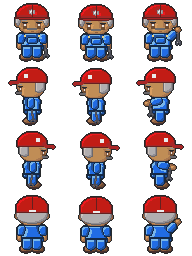
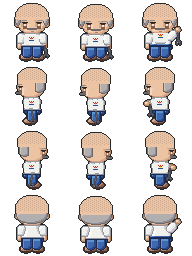
Rename the garage Phoenix MX with its sign, and make its mechanic Paul Phoenix
The Home Town garage is Phoenix MX everywhere: the building, its door and return, the shop, the interior's title, the journal, items and dialogue, with a new sign on the exterior sheet in the logo's style (tools/art/phoenix-mx.py draws it and Paul). The mechanic is Paul Phoenix, an older white man with stubble on his head in a white Phoenix MX T-shirt and blue jeans; the tutorial sends the player to the town's mechanic at Phoenix MX and Paul introduces himself at the first meeting. Tests follow the names and the Home Town map's hash.

Claude-Session: https://claude.ai/code/session_0112bA7bW8SkGFjFEFc6DWDg

diff --git a/tests/buildings.test.ts b/tests/buildings.test.ts
@@ -10,8 +10,8 @@ const maps = loadMaps();
 const T = 64;
 
 /** The Home Town map file as it stands (Alpha v1: 2×2 road exits and the local racer outside the garage). */
-// Updated for the Used Motors building and its seller (Boss, 28 Oct 2026).
[1 lines of base64/hex data omitted]
+// Updated for the Used Motors building and its seller (Boss, 28 Oct 2026), and the garage renamed Phoenix MX (29 Oct 2026).
[1 lines of base64/hex data omitted]
 
 function pngSize(rel: string): [number, number] {
   const b = fs.readFileSync(`public/assets/${rel}`);
@@ -120,7 +120,7 @@ describe('building checks', () => {
     const named = withLib((b) => {
       b.find((x) => x.id === 'bld.home.local_garage')!.returns = [{ tile: [1, 4] }];
     });
-    expect(problems(named).join('\n')).toMatch(/comes out on the return named "side_door", which Local garage doesn't have/);
+    expect(problems(named).join('\n')).toMatch(/comes out on the return named "side_door", which Phoenix MX doesn't have/);
   });
 
   it('refuses a door or return moved on the map but not in the library', () => {

diff --git a/tests/guides.test.ts b/tests/guides.test.ts
@@ -110,7 +110,7 @@ describe('road exits and the local racer (Alpha v1)', () => {
   it('stands the local racer on the pavement outside the local garage', () => {
     const home = map('area1-home-town');
     const racer = home.objects.find((o) => o.type === 'npc' && o.props.npc === 'npc.local_racer')!;
-    const garage = home.objects.find((o) => o.type === 'building' && o.name === 'Local garage')!;
+    const garage = home.objects.find((o) => o.type === 'building' && o.name === 'Phoenix MX')!;
     const t = { x: racer.x / 64, y: racer.y / 64 };
     expect(t.y).toBe((garage.y + garage.h) / 64);
     expect(t.x).toBeGreaterThanOrEqual(garage.x / 64);

diff --git a/tests/waymarks.test.ts b/tests/waymarks.test.ts
@@ -32,7 +32,7 @@ describe('tutorial markers (Boss, 28 Oct 2026)', () => {
   it('points at the building door, the way out of a building, or the road to another area', () => {
     const garage = hop('area1-home-town', 'int-home-local-garage')!;
     expect(garage.kind).toBe('door');
-    expect(new Set(garage.via.map((o) => o.name))).toEqual(new Set(['Local garage']));
+    expect(new Set(garage.via.map((o) => o.name))).toEqual(new Set(['Phoenix MX']));
     expect(garage.via.length).toBeGreaterThan(1);
 
     const out = hop('int-home-local-garage', 'int-home-bike-shop')!;

diff --git a/src/scenes/WorldScene.ts b/src/scenes/WorldScene.ts
@@ -740,7 +740,7 @@ export class WorldScene extends Phaser.Scene {
     const job = services.content.world.jobs.find((j) => j.map === this.map.id && j.start === o.name);
     if (!job) return false;
     if (job.needs && !this.save.flags[job.needs]) {
-      this.hud.toast('Nobody here has time to show you the work yet. Finish helping the garage mechanic first.');
+      this.hud.toast('Nobody here has time to show you the work yet. Finish helping Paul at Phoenix MX first.');
       return true;
     }
     const pay = formatMoney(jobPay(services.content.world, job));

diff --git a/tools/art/phoenix-mx.py b/tools/art/phoenix-mx.py
@@ -1,0 +1,206 @@
+"""Phoenix MX (Boss, 29 Oct 2026): the garage's sign and Paul Phoenix, its mechanic.
+
+Redraws the garage sign on the exterior sheet in the Phoenix MX logo's style (slanted white-edged
+letters, blue for PHOENIX and red for MX, the phoenix rising over the MX) and turns the garage
+mechanic's sheets into Paul: an older white man with stubble on his head instead of a cap, in a
+white Phoenix MX T-shirt and blue jeans. Writes the sheets in place and 4x previews:
+
+    python3 tools/art/phoenix-mx.py <repo> <preview-dir>
+"""
+import sys
+from pathlib import Path
+
+from PIL import Image, ImageDraw, ImageFont
+
+OUTLINE = (39, 42, 44, 255)
+# The sheet's colours and Paul's.
+SKIN = {(192, 141, 86): (236, 196, 164), (168, 119, 80): (214, 168, 136), (216, 157, 96): (246, 214, 186), (142, 94, 62): (176, 130, 100), (107, 74, 49): (130, 92, 70)}
+CAP = {(194, 28, 21), (238, 25, 29), (168, 39, 39), (100, 32, 31)}
+BLUE = {(33, 108, 228): 'mid', (33, 80, 153): 'shade', (120, 181, 233): 'hi', (20, 41, 71): 'dark'}
+SHIRT = {'mid': (240, 240, 236), 'shade': (204, 204, 210), 'hi': (252, 252, 250), 'dark': (150, 150, 160)}
+JEANS = {'mid': (62, 104, 176), 'shade': (42, 72, 132), 'hi': (96, 146, 206), 'dark': (26, 42, 82)}
+SKIN_MID = (236, 196, 164)
+STUBBLE = (204, 170, 146)
+HAIR = {(177, 174, 175), (145, 142, 147)}
+EYE = (234, 235, 235)
+BUTTON = (232, 209, 132)
+# The chest mark: the phoenix in three flame tones over a blue MX bar.
+Y, O, R, B = (250, 220, 60), (240, 130, 30), (210, 40, 30), (33, 80, 153)
+MARK = [
+    [R, 0, R, 0, R],
+    [0, R, O, R, 0],
+    [0, 0, Y, 0, 0],
+    [B, B, B, B, B],
+]
+
+
+def paul(sheet: Image.Image, fw=64, fh=64) -> Image.Image:
+    out = sheet.copy()
+    px = out.load()
+    for fy in range(0, sheet.height, fh):
+        for fx in range(0, sheet.width, fw):
+            frame(px, fx, fy, fw, fh)
+    return out
+
+
+def frame(px, fx, fy, fw, fh):
+    rows = range(fy, fy + fh)
+    cols = range(fx, fx + fw)
+    rgb = lambda x, y: px[x, y][:3]
+    # Where the body (blue) and the face (skin) are, to split shirt from jeans and cap from face.
+    body = [y for y in rows if any(rgb(x, y) in BLUE for x in cols)]
+    skin = [y for y in rows if any(rgb(x, y) in SKIN for x in cols)]
+    if not body or not skin:
+        return
+    waist = body[0] + (body[-1] - body[0]) // 2 + 1
+    face_top = skin[0]
+    # The face's width just under the cap: the cap's brim and peak stick out beyond it and go.
+    span = {}
+    for y in rows:
+        xs = [x for x in cols if px[x, y][3] and rgb(x, y) not in CAP and rgb(x, y) != OUTLINE[:3]]
+        if xs:
+            span[y] = (min(xs), max(xs))
+    head = span.get(face_top) or span.get(face_top + 1)
+    for y in rows:
+        for x in cols:
+            c = rgb(x, y)
+            if not px[x, y][3]:
+                continue
+            if c in SKIN:
+                px[x, y] = SKIN[c] + (255,)
+            elif c in BLUE:
+                px[x, y] = (SHIRT if y < waist else JEANS)[BLUE[c]] + (255,)
+            elif c in CAP or (y < face_top and (c in {(234, 235, 235), (207, 197, 191)} or (c in HAIR and head and head[0] + 2 < x < head[1] - 2))):
+                # The cap: its crown is the top of the head now; the cap's badge is skin too.
+                px[x, y] = SKIN_MID + (255,)
+            elif c == BUTTON:
+                px[x, y] = SHIRT['mid'] + (255,)
+    # The brim and peak beyond the head go, outline and all, from the cap rows down to the brow.
+    if head:
+        for y in range(fy, face_top + 2):
+            for x in cols:
+                if x < head[0] - 1 or x > head[1] + 1:
+                    px[x, y] = (0, 0, 0, 0)
+        # Lower down, the peak's last pixels stand apart from the face: short runs off the head go.
+        mid = (head[0] + head[1]) // 2
+        for y in range(face_top + 2, face_top + 8):
+            run = []
+            for x in list(cols) + [fx + fw]:
+                if x < fx + fw and px[x, y][3]:
+                    run.append(x)
+                elif run:
+                    if len(run) <= 6 and not (run[0] <= mid <= run[-1]):
+                        for rx in run:
+                            px[rx, y] = (0, 0, 0, 0)
+                    run = []
+    # Stubble: a sparse checker over the former crown, above the forehead.
+    for y in range(fy, face_top - 3):
+        for x in cols:
+            if px[x, y][:3] == SKIN_MID and (x + 2 * y) % 4 == 0:
+                px[x, y] = STUBBLE + (255,)
+    # Outline pixels left beside the removed brim go; then every edge gets its outline back.
+    for y in rows:
+        for x in cols:
+            if px[x, y][:3] == OUTLINE[:3] and y < face_top:
+                near = [(x + dx, y + dy) for dx in (-1, 0, 1) for dy in (-1, 0, 1) if (dx or dy)]
+                if not any(fx <= nx < fx + fw and fy <= ny < fy + fh and px[nx, ny][3] and px[nx, ny][:3] != OUTLINE[:3] for nx, ny in near):
+                    px[x, y] = (0, 0, 0, 0)
+    for y in rows:
+        for x in cols:
+            if px[x, y][3]:
+                continue
+            near = [(x + dx, y + dy) for dx, dy in ((1, 0), (-1, 0), (0, 1), (0, -1))]
+            if any(fx <= nx < fx + fw and fy <= ny < fy + fh and px[nx, ny][3] and px[nx, ny][:3] != OUTLINE[:3] for nx, ny in near):
+                px[x, y] = OUTLINE
+    # Front frames (the eyes show): the overalls' bib lines come off the shirt and the chest mark goes on.
+    eyes = any(px[x, y][:3] == EYE for y in range(face_top, body[0]) for x in cols)
+    if eyes:
+        y0 = body[0] + 4
+        xs = [x for x in cols if px[x, y0 + 1][:3] in SHIRT.values()]
+        if xs:
+            cx = (min(xs) + max(xs)) // 2
+            # The bib's pocket lines, in the middle of the chest, become plain shirt.
+            for y in range(body[0] + 2, waist - 2):
+                for x in range(cx - 7, cx + 8):
+                    if px[x, y][:3] in (SHIRT['shade'], SHIRT['hi'], SHIRT['dark']):
+                        px[x, y] = SHIRT['mid'] + (255,)
+            for j, row in enumerate(MARK):
+                for i, c in enumerate(row):
+                    if c and px[cx - 2 + i, y0 + j][:3] in SHIRT.values():
+                        px[cx - 2 + i, y0 + j] = c + (255,)
+
+
+def logo(w: int, h: int) -> Image.Image:
+    """The Phoenix MX logo on a dark sign: slanted letters, blue then red, the bird over the MX."""
+    img = Image.new('RGBA', (w, h), (0, 0, 0, 0))
+    S = 4
+    big = Image.new('RGBA', (w * S, h * S), (0, 0, 0, 0))
+    d = ImageDraw.Draw(big)
+    font = ImageFont.truetype('/usr/share/fonts/truetype/freefont/FreeSansBoldOblique.ttf', int(h * S * 0.8))
+    text_y = int(h * S * 0.08)
+    x = int(w * S * 0.03)
+    for word, tones in (('PHOENIX', [(120, 181, 233), (33, 108, 228), (20, 41, 120)]), ('MX', [(255, 120, 90), (238, 25, 29), (120, 20, 20)])):
+        box = d.textbbox((x, text_y), word, font=font)
+        mask = Image.new('L', big.size, 0)
+        ImageDraw.Draw(mask).text((x, text_y), word, font=font, fill=255)
+        fill = Image.new('RGBA', big.size, (0, 0, 0, 0))
+        fp = fill.load()
+        mp = mask.load()
+        for yy in range(box[1], box[3] + 1):
+            t = (yy - box[1]) / max(1, box[3] - box[1])
+            tone = tones[0] if t < 0.3 else tones[1] if t < 0.72 else tones[2]
+            for xx in range(box[0], box[2] + 1):
+                if mp[xx, yy] > 128:
+                    fp[xx, yy] = tone + (255,)
+        # White edge then dark edge round the letters.
+        for dx in range(-S * 2, S * 2 + 1):
+            for dy in range(-S * 2, S * 2 + 1):
+                if abs(dx) + abs(dy) <= S * 3:
+                    d.text((x + dx, text_y + dy), word, font=font, fill=(30, 32, 36, 255))
+        for dx in range(-S, S + 1):
+            for dy in range(-S, S + 1):
+                d.text((x + dx, text_y + dy), word, font=font, fill=(250, 250, 248, 255))
+        big.alpha_composite(fill)
+        x = box[2] + int(S * 1.5)
+    # The phoenix: wings up and out, head turned, tail trailing, flame tones top to bottom.
+    bx = int(w * S * 0.74)
+    by = int(h * S * 0.04)
+    bw = int(w * S * 0.24)
+    bh = int(h * S * 0.62)
+    P = lambda u, v: (bx + u * bw, by + v * bh)
+    body = [P(0.5, 1.0), P(0.44, 0.75), P(0.25, 0.55), P(0.0, 0.35), P(0.08, 0.22), P(0.14, 0.3), P(0.18, 0.08), P(0.24, 0.25), P(0.3, 0.0), P(0.34, 0.28), P(0.42, 0.3), P(0.44, 0.25), P(0.47, 0.1), P(0.52, 0.05), P(0.56, 0.12), P(0.55, 0.28), P(0.62, 0.28), P(0.7, 0.0), P(0.76, 0.25), P(0.82, 0.08), P(0.86, 0.3), P(0.92, 0.22), P(1.0, 0.35), P(0.75, 0.55), P(0.56, 0.75)]
+    bird = Image.new('RGBA', big.size, (0, 0, 0, 0))
+    ImageDraw.Draw(bird).polygon(body, fill=(255, 255, 255, 255), outline=(30, 32, 36, 255), width=S)
+    bp = bird.load()
+    for yy in range(by, by + bh + 1):
+        t = (yy - by) / bh
+        tone = (250, 220, 60) if t < 0.25 else (240, 130, 30) if t < 0.55 else (210, 40, 30)
+        for xx in range(bx - 2, bx + bw + 3):
+            if 0 <= xx < big.width and 0 <= yy < big.height and bp[xx, yy][3]:
+                bp[xx, yy] = tone + (255,)
+    big.alpha_composite(bird)
+    return big.resize((w, h), Image.LANCZOS)
+
+
+def main(repo: Path, preview: Path):
+    npcs = repo / 'public/assets/art/characters/npcs'
+    for name in ('npc-01-garage-mechanic.png', 'npc-01-garage-mechanic.act.png'):
+        sheet = Image.open(npcs / name).convert('RGBA')
+        out = paul(sheet)
+        out.save(npcs / name)
+        out.resize((out.width * 4, out.height * 4), Image.NEAREST).save(preview / f'paul-{name}')
+    sheet_path = repo / 'public/assets/art/buildings/sheets/buildings-exterior-v3.png'
+    sheet = Image.open(sheet_path).convert('RGBA')
+    # The garage's sign panel on the exterior (the building's crop is 1216,0 576x256).
+    x0, y0, x1, y1 = 1216 + 58, 108, 1216 + 336, 148
+    d = ImageDraw.Draw(sheet)
+    d.rectangle((x0, y0, x1 - 1, y1 - 1), fill=(32, 34, 38, 255), outline=(60, 62, 66, 255))
+    lg = logo(x1 - x0 - 4, y1 - y0 - 4)
+    sheet.alpha_composite(lg, (x0 + 2, y0 + 2))
+    sheet.save(sheet_path)
+    crop = sheet.crop((1216, 0, 1216 + 576, 256))
+    crop.resize((crop.width * 2, crop.height * 2), Image.NEAREST).save(preview / 'phoenix-mx-garage.png')
+
+
+if __name__ == '__main__':
+    main(Path(sys.argv[1]), Path(sys.argv[2]))

diff --git a/README.md b/README.md
@@ -12,7 +12,7 @@ This is **Alpha v1.1**: the whole career loop from a broken bike to race days at
 
 The game loop: **earn money, keep the bike going, race, level up, repeat.**
 
-1. **Start a career** in Home Town with a broken 50cc. The garage mechanic's tutorial gets it running and teaches the basics.
+1. **Start a career** in Home Town with a broken 50cc. Paul Phoenix, the mechanic at Phoenix MX, gets it running in the tutorial and teaches the basics.
 2. **Earn money** on shifts in the Industrial Zone: the fabrication shop (frame brackets) and the engine rebuilder (pistons). Pay is per part made, and is boosted 10× while testing.
 3. **Look after the bike.** Every lap wears its parts, and a part at 0% breaks. Buy new or better-grade parts at the general bike shop and the tyre shop in Home Town (fitted free, or kept as spares in your bag), and pay the local garage to repair or fit them.
 4. **Get a van** and load your bike to reach the tracks on the venue road.
@@ -166,7 +166,7 @@ Markers come from `story.json` and the maps' doors and exits, so a new step need
 
 #### After the tutorial: challenges, errands and records (Boss, 28 Oct 2026)
 
-- **Story after the tutorial.** The garage mechanic gives a word of advice the first time you talk to him after the opening chain: level up your skills, watch your parts wear and upgrade them, and how repairs work (one grade down at 100%; Grade 1 and broken parts can't be repaired). Then he points you to Mickey Alington by the practice track gate. The fabrication shop boss tells you about Dan Smyth by the Industrial Zone practice yard. Both are in the Task journal until you've heard them (a `talk` rule with `sets` in `npcs.json` is said once).
+- **Story after the tutorial.** Paul Phoenix, the mechanic at Phoenix MX, gives a word of advice the first time you talk to him after the opening chain: level up your skills, watch your parts wear and upgrade them, and how repairs work (one grade down at 100%; Grade 1 and broken parts can't be repaired). Then he points you to Mickey Alington by the practice track gate. The fabrication shop boss tells you about Dan Smyth by the Industrial Zone practice yard. Both are in the Task journal until you've heard them (a `talk` rule with `sets` in `npcs.json` is said once).
 - **Challenges** (`challenges.json`, `src/core/challenge.ts`). **Mickey Alington** at the Home Town practice track gate races you for **£50**, 8 riders over 3 laps. **Dan Smyth** by the Industrial Zone practice yard races you one on one for **£70** over 3 laps. Win, and you get your entry back plus the same again; anything but first wins nothing. Win or lose, you can race again straight away, with normal wear and XP. Each challenge needs its own new track, so until that track is in `tracks.json` the challenger says it's still being built. Both tracks are now in (Boss, 29 Oct 2026): **Home Town Practice** (`challenge-home`) and **Industrial Zone** (`challenge-industrial`), so both challenges are open.
 - **Boss's Area 1 tracks (29 Oct 2026).** Farmland MX, Riverside Arena and Longmoor Enduro in `tracks.json` are replaced by Boss's versions from the track editor. The example mod track is now **First Try MX** (`public/mods/tracks/first-try-mx.track.json`); the Farmland copy and the Industrial Zone draft are gone from the mods folder.
   - **Win chance comes from the bike.** It averages every part's condition across the bike, so a part at 100% and one at 40% count as two at 70%. On a 50cc with all parts at 75% it is 50%, going up or down 1% per 1% of condition, between 5% and 85%. Bigger classes are easier: 65cc is 85% at 75% (95% at most) and 85cc small wheel is 97% (99% at most). Nothing is ever 100%. Rider skill doesn't count in Area 1. The odds are a table per challenge in `challenges.json`, to balance with Boss, ready for Areas 2 to 8 to aim at bigger classes.
@@ -239,7 +239,7 @@ Checked against the "Starter career slice" part of the Systems Specification che
 
 - Character creation: pick a rider, type a rider name (it can't be changed later), and choose one of four starter 50cc bikes: Yamamoto, Kwakmoto, Sukimoto or Hondmoto. Each leans a different way with the same overall total.
 - Money and a bike: you start with £150 and a second-hand bike whose Grade 1 parts are at 50–80% condition, with the top end at 0%. The Bike panel shows the six bike stats, every part's grade and condition, your bag and your current task. The task also shows on screen under your money.
-- The opening chain, run by the garage mechanic. You get a used top end, pay £90 to fit it on the garage bench, and earn £120 for it. Then come errands to the bike shop, tyre shop and engine rebuilder, two customer bike services, and a visit to the van seller. It can't be skipped, and it pays out so you reach the van £80 short.
+- The opening chain, run by Paul Phoenix, the mechanic at Phoenix MX (the garage on the high street). You get a used top end, pay £90 to fit it on the garage bench, and earn £120 for it. Then come errands to the bike shop, tyre shop and engine rebuilder, two customer bike services, and a visit to the van seller. It can't be skipped, and it pays out so you reach the van £80 short.
 - Until the chain is done, roadworks block the west road and the NPCs outside it don't acknowledge you. When it ends, the roadworks are cleared away and a fresh tarmac patch is left behind.
 - Repeatable shifts at the fabrication shop (20 brackets at 75p) and the engine rebuilder (16 pistons at £1.25). Each part is a pass through three stations: click the highlighted station, wait for it, and move on. You're paid per part, even if you stop early.
 - The used van for £600. A final task loads your bike and spares from your rented room, which opens the venue route and the world map. You can drive to Farmland MX, Quarry MX and Woodland MX and look around. The local racer points you to Farmland MX.

diff --git a/docs/ADDING_ASSETS_AND_TRACKS.md b/docs/ADDING_ASSETS_AND_TRACKS.md
@@ -534,7 +534,7 @@ The game refuses a track that:
 
 ### 7.5 A person: `public/assets/art/characters/npcs/npc-01-garage-mechanic.png` and `.act.png`
 
-- **What it is:** the garage mechanic's walk sheet (384 × 256) and action sheet (192 × 256).
+- **What it is:** Paul Phoenix's walk sheet (384 × 256) and action sheet (192 × 256), the mechanic at Phoenix MX; `tools/art/phoenix-mx.py` drew him and the garage's sign from the earlier mechanic and sign.
 - **How to use it:** look at it to see the frame layout before redrawing someone (section 5.7).
 
 ### 7.6 A ground and a scenery entry: `public/data/trackParts.json`
